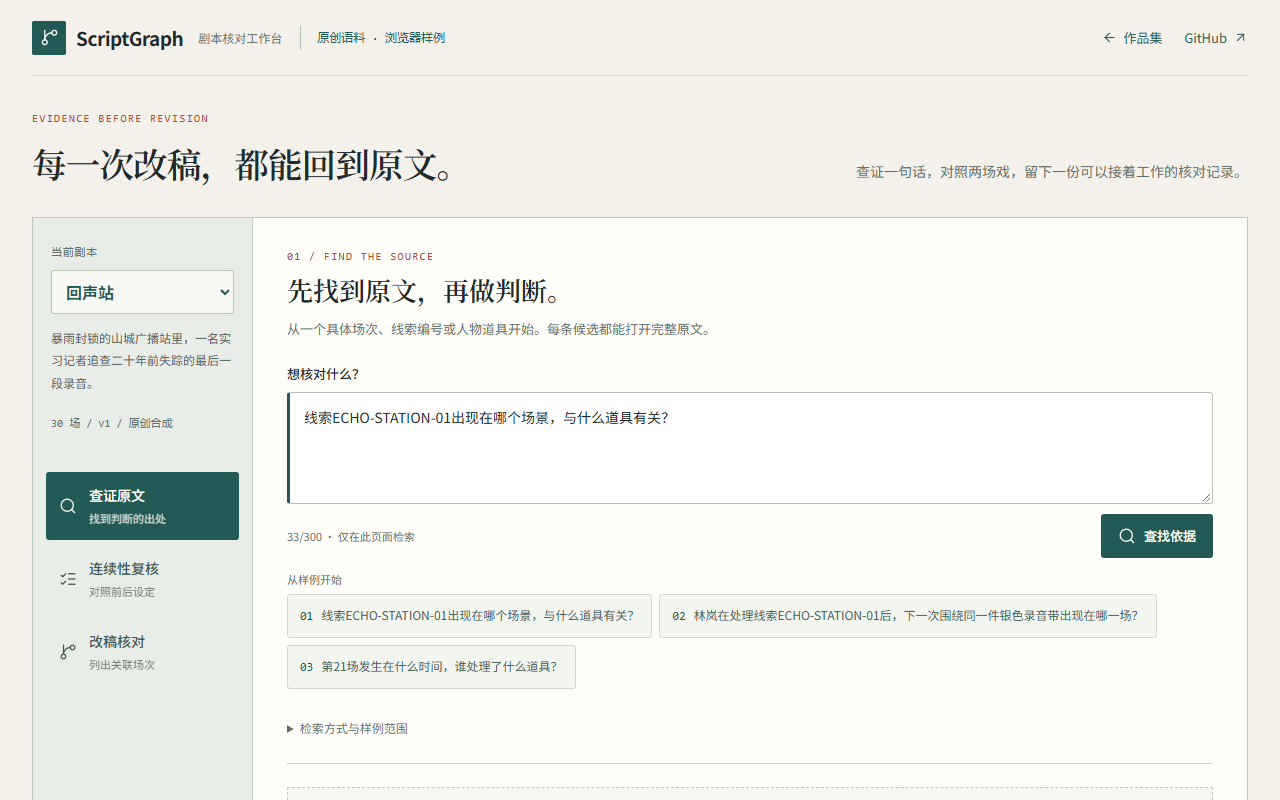
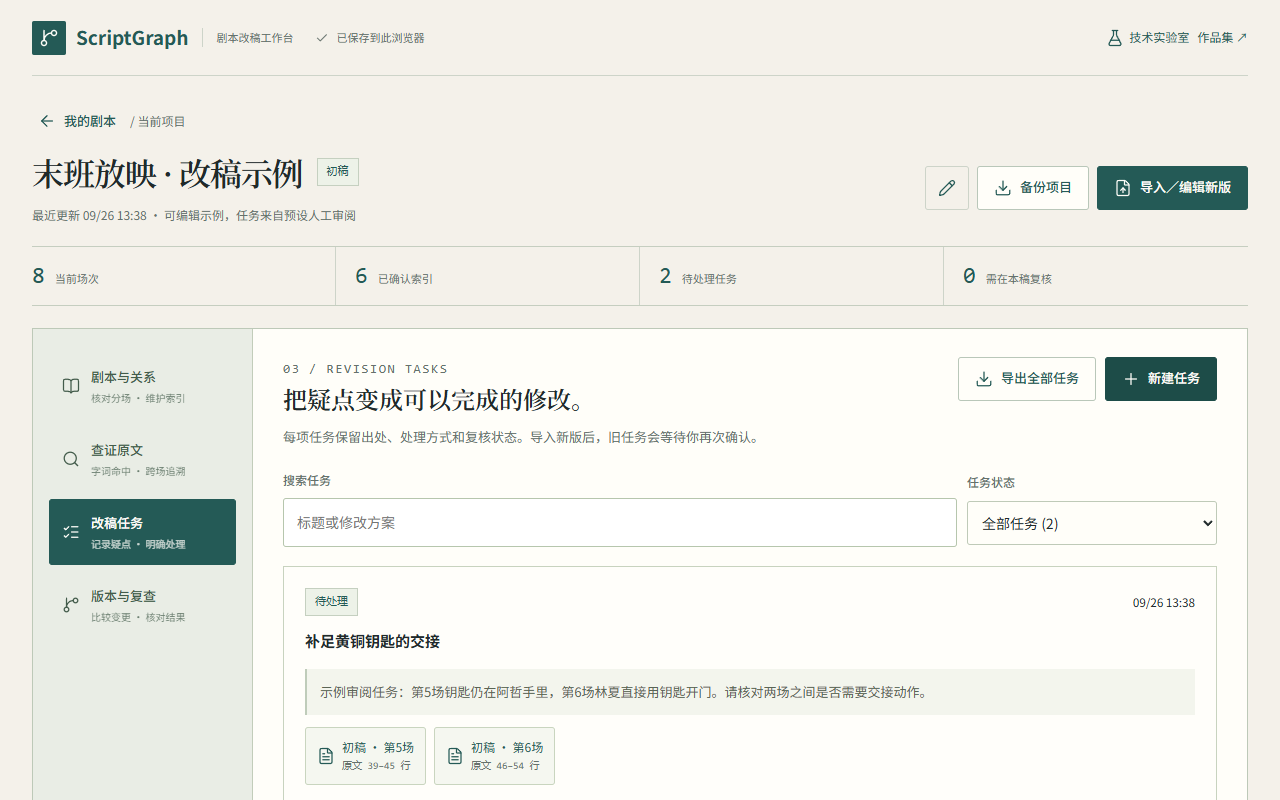
Present ScriptGraph import-to-revision product workflow

diff --git a/index.html b/index.html
@@ -265,12 +265,12 @@
     </article>
     <div class="demo-grid tech-grid">
       <div class="demo-card">
-        <div class="preview"><img src="assets/scriptgraph-demo.png" alt="ScriptGraph 剧本核对工作台：查证原文、连续性复核与改稿核对" width="1280" height="800" loading="lazy"/></div>
+        <div class="preview"><img src="assets/scriptgraph-demo.png" alt="ScriptGraph 剧本改稿工作台：原文依据、改稿任务与版本复核" width="1280" height="800" loading="lazy"/></div>
         <div class="demo-info">
           <div class="kind">AI 影视 · GraphRAG · 公开</div>
           <h3>ScriptGraph</h3>
-          <p>把剧本判断落回原文：打开带行号的场次，对照连续性候选，记录人工复核结论，再导出改稿核对清单。公开版使用两部原创合成语料；样例检索结果可追溯，自由输入查找关键词候选。</p>
-          <div class="actions"><a class="abtn fill" href="https://daizhouchen.github.io/scriptgraph-rag/" target="_blank" rel="noopener">打开核对工作台 →</a><a class="abtn" href="https://github.com/daizhouchen/scriptgraph-rag" target="_blank" rel="noopener">GitHub</a></div>
+          <p>编剧与剧本统筹的改稿工作台：导入自己的剧本，确认分场与人物道具，沿真实提及查证原文；把疑点建成任务，比较新版并逐项复核。支持本机保存与备份恢复，旧引用始终对应旧稿。技术实验室保留 GraphRAG 固定评测。</p>
+          <div class="actions"><a class="abtn fill" href="https://daizhouchen.github.io/scriptgraph-rag/" target="_blank" rel="noopener">打开改稿工作台 →</a><a class="abtn" href="https://github.com/daizhouchen/scriptgraph-rag" target="_blank" rel="noopener">GitHub</a></div>
         </div>
       </div>
 
